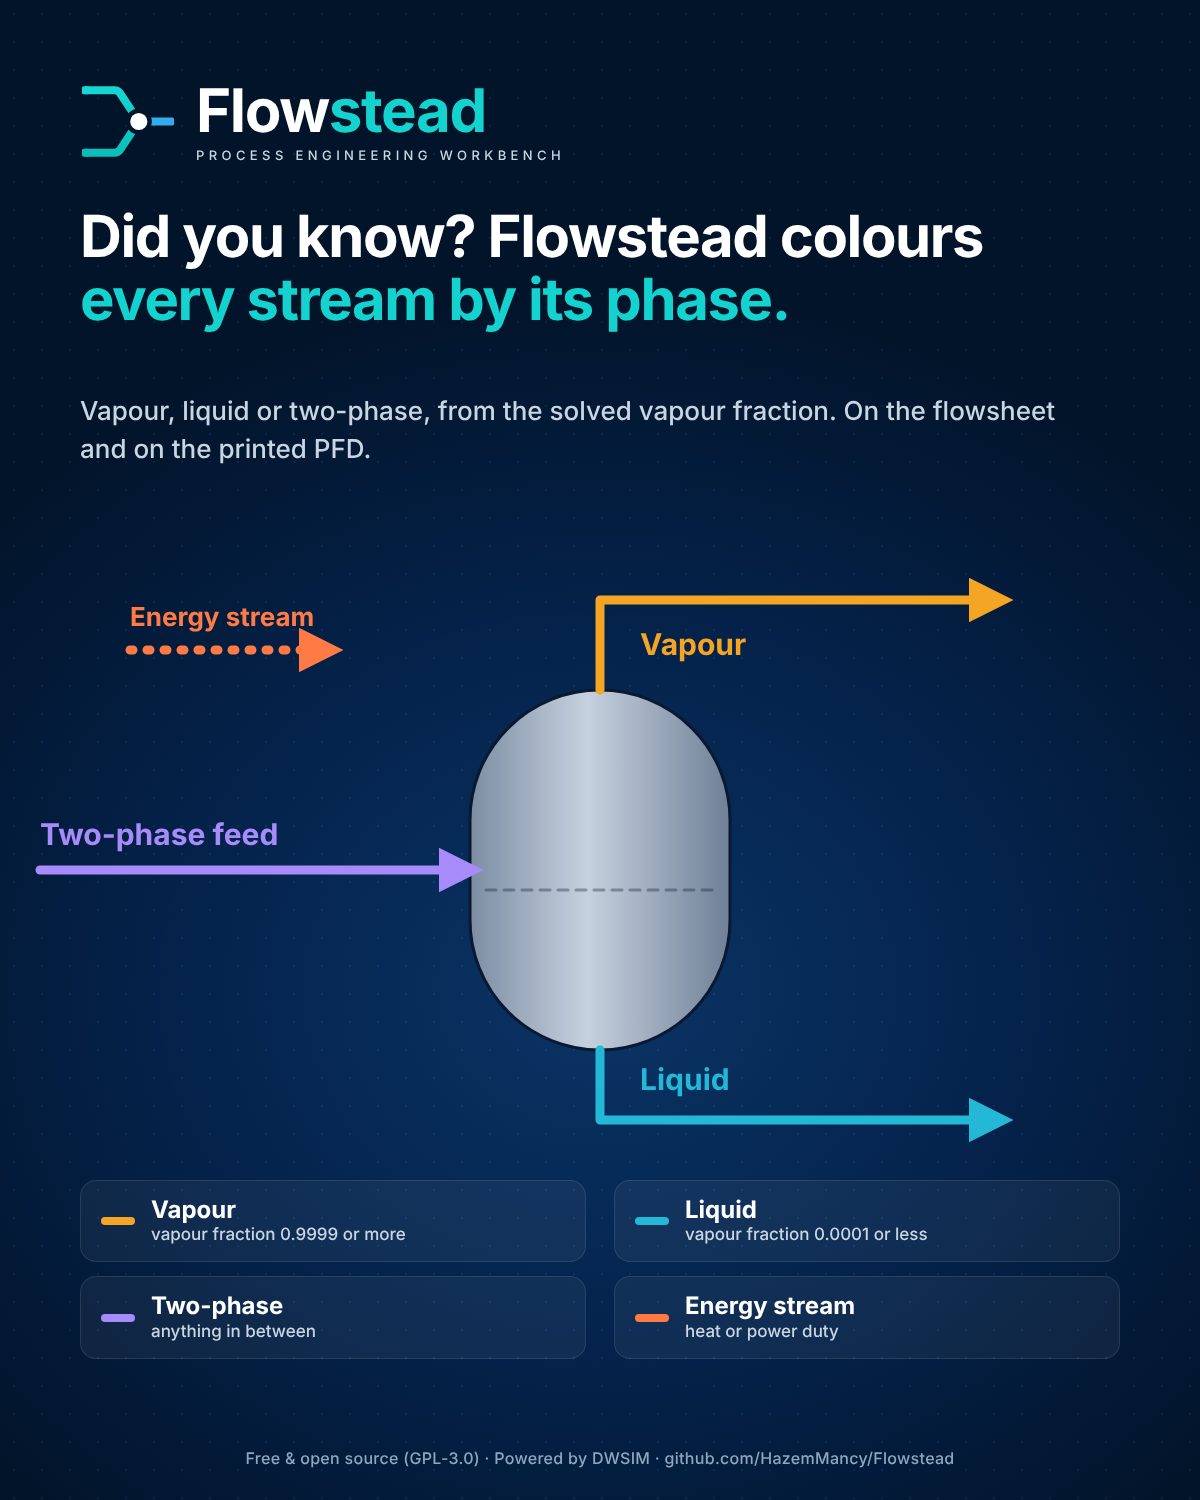
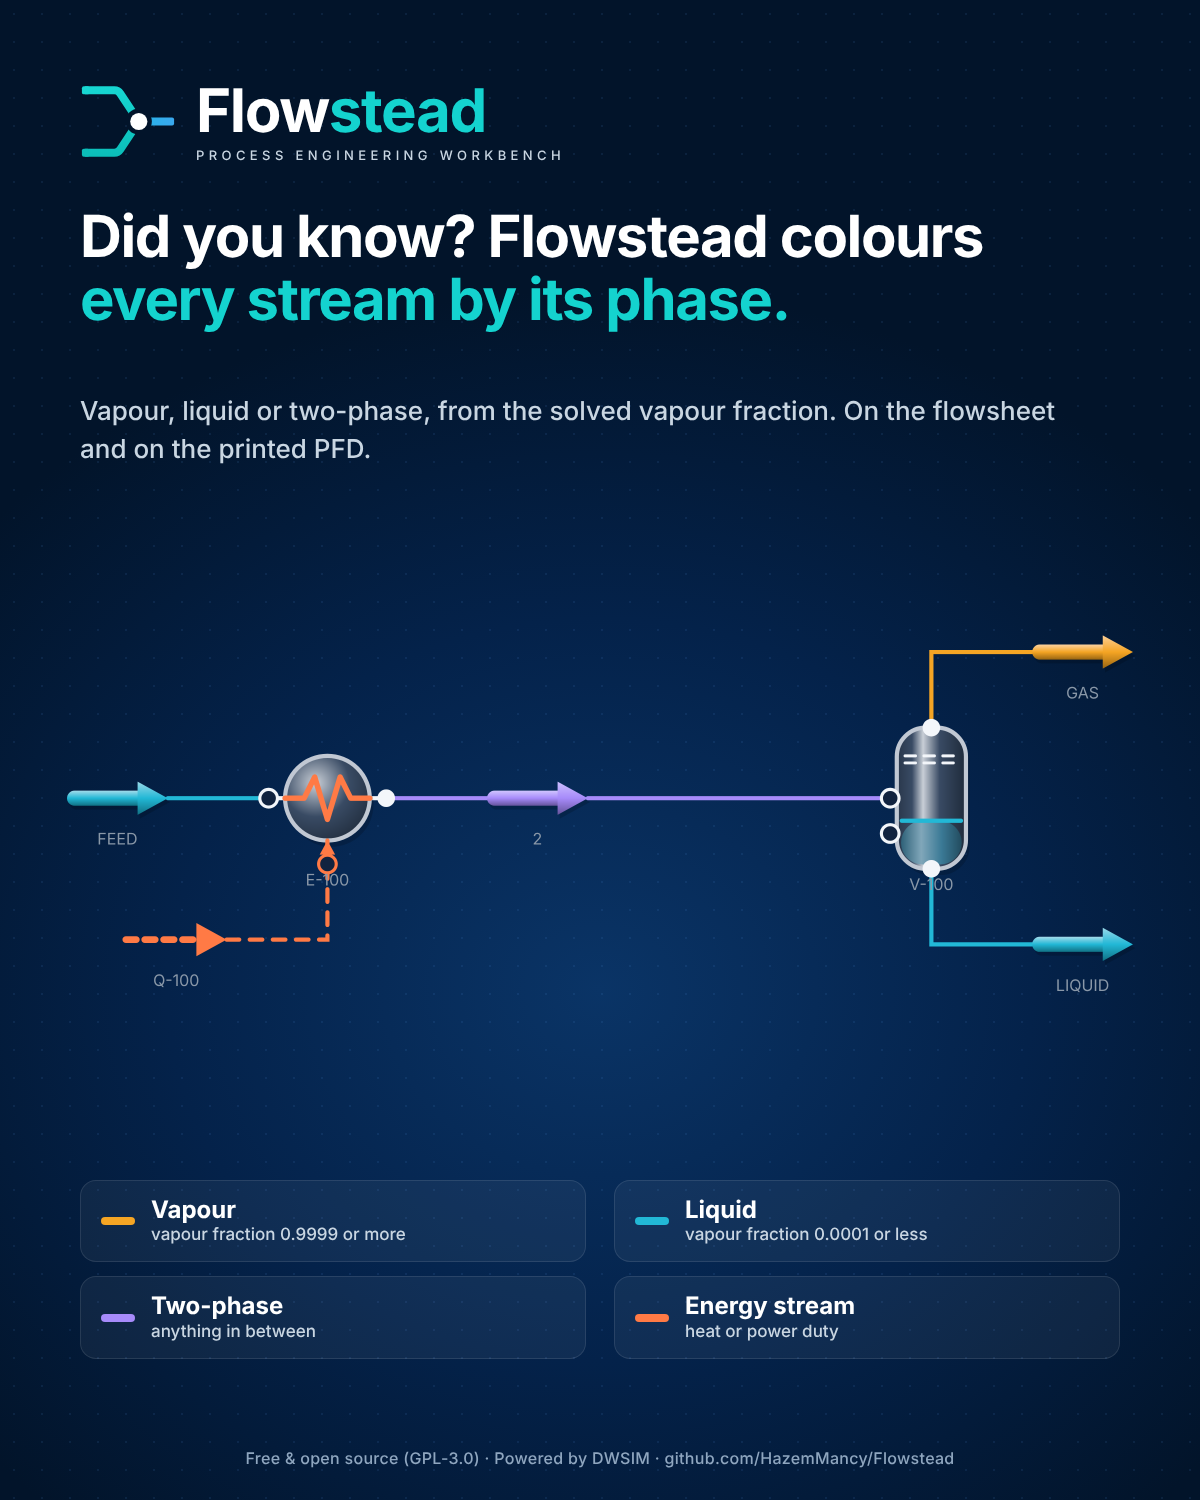
LinkedIn: phase-colours post uses the app's own symbols (drawn by the web core's canvas)
Claude-Session: https://claude.ai/code/session_01HZRB96Aqg1V3VJki8fwms8

Changed region(s): [[0.0308, 0.368, 0.9558, 0.7667], [0.0925, 0.3987, 0.2775, 0.46], [0.1233, 0.6133, 0.185, 0.644]]

diff --git a/docs/linkedin/src/post-phase-colours.html b/docs/linkedin/src/post-phase-colours.html
@@ -1,6 +1,6 @@
 <!doctype html>
 <!-- LinkedIn feed post image, 4:5 (1200x1500): "did you know" stream phase colours. The colours are the app's own (dark theme,
-     ui/theme/ValueColors.kt) and the thresholds are phaseColor() in Icons.kt; a diagram, so no result numbers appear.
+     ui/theme/ValueColors.kt) and the thresholds are phaseColor() in Icons.kt; the symbols and streams are the app's own, drawn by its canvas code (render-phase-flowsheet.mjs); no result numbers appear.
      Render: node src/render.js -->
 <html><head><meta charset="utf-8"><script src="mark.js"></script><style>
 @font-face{font-family:Inter;font-weight:700;src:url(../../../android/app/src/main/res/font/inter_bold.ttf)}
@@ -32,7 +32,7 @@ h1 span{color:#14D3CF}
 
 h1{top:205px;font-size:58px;letter-spacing:-1.4px}
 .lead{top:392px}
-.dia{position:absolute;left:0;top:560px}
+.dia{position:absolute;left:50px;top:600px}
 .leg{position:absolute;left:80px;top:1180px;width:1040px;display:grid;grid-template-columns:1fr 1fr;gap:14px 28px}
 .row{display:flex;align-items:center;gap:16px;padding:16px 20px;border-radius:16px;background:rgba(255,255,255,.05);border:1px solid rgba(255,255,255,.10)}
 .dot{width:34px;height:8px;border-radius:4px;flex:none}
@@ -44,29 +44,7 @@ h1{top:205px;font-size:58px;letter-spacing:-1.4px}
 <div><div class="name">Flow<span>stead</span></div><div class="sub">PROCESS ENGINEERING WORKBENCH</div></div></div>
 <h1>Did you know? Flowstead colours <span>every stream by its phase.</span></h1>
 <div class="lead">Vapour, liquid or two-phase, from the solved vapour fraction. On the flowsheet and on the printed PFD.</div>
-<svg class="dia" width="1200" height="600" viewBox="0 0 1200 600" fill="none" stroke-linecap="round" stroke-linejoin="round">
-<defs>
- <linearGradient id="st" x1="0" x2="1"><stop offset="0" stop-color="#7C8DA3"/><stop offset=".45" stop-color="#C5D1DE"/><stop offset="1" stop-color="#6F8097"/></linearGradient>
- <marker id="av" viewBox="0 0 10 10" refX="7" refY="5" markerWidth="5" markerHeight="5" orient="auto"><path d="M0 0L10 5L0 10z" fill="#F5A524"/></marker>
- <marker id="al" viewBox="0 0 10 10" refX="7" refY="5" markerWidth="5" markerHeight="5" orient="auto"><path d="M0 0L10 5L0 10z" fill="#22B8D6"/></marker>
- <marker id="at" viewBox="0 0 10 10" refX="7" refY="5" markerWidth="5" markerHeight="5" orient="auto"><path d="M0 0L10 5L0 10z" fill="#A78BFA"/></marker>
- <marker id="ae" viewBox="0 0 10 10" refX="7" refY="5" markerWidth="5" markerHeight="5" orient="auto"><path d="M0 0L10 5L0 10z" fill="#FF7A45"/></marker>
-</defs>
-<!-- separator -->
-<rect x="470" y="130" width="260" height="360" rx="130" fill="url(#st)" stroke="#0B1930" stroke-width="3"/>
-<path d="M486 330H714" stroke="#0B1930" stroke-opacity=".35" stroke-width="3" stroke-dasharray="10 8"/>
-<!-- streams -->
-<path d="M40 310H300H470" stroke="#A78BFA" stroke-width="9" marker-end="url(#at)"/>
-<path d="M600 130V40H1000" stroke="#F5A524" stroke-width="9" marker-end="url(#av)"/>
-<path d="M600 490V560H1000" stroke="#22B8D6" stroke-width="9" marker-end="url(#al)"/>
-<path d="M130 90H330" stroke="#FF7A45" stroke-width="9" stroke-dasharray="3 14" marker-end="url(#ae)"/>
-<!-- labels -->
-<g font-family="Inter" font-weight="700" font-size="30">
-<text x="40" y="285" fill="#A78BFA">Two-phase feed</text>
-<text x="640" y="95" fill="#F5A524">Vapour</text>
-<text x="640" y="530" fill="#22B8D6">Liquid</text>
-<text x="130" y="66" fill="#FF7A45" font-size="26">Energy stream</text></g>
-</svg>
+<img class="dia" src="phase-flowsheet.png" width="1100" height="430">
 <div class="leg"><div class="row"><div class="dot" style="background:#F5A524"></div><div><b>Vapour</b><span>vapour fraction 0.9999 or more</span></div></div><div class="row"><div class="dot" style="background:#22B8D6"></div><div><b>Liquid</b><span>vapour fraction 0.0001 or less</span></div></div><div class="row"><div class="dot" style="background:#A78BFA"></div><div><b>Two-phase</b><span>anything in between</span></div></div><div class="row"><div class="dot" style="background:#FF7A45"></div><div><b>Energy stream</b><span>heat or power duty</span></div></div></div>
 <div class="foot">Free &amp; open source (GPL-3.0) · Powered by DWSIM · github.com/HazemMancy/Flowstead</div>
 </div>

diff --git a/docs/linkedin/post-phase-colours.md b/docs/linkedin/post-phase-colours.md
@@ -1,6 +1,6 @@
 # LinkedIn post: stream phase colours
 
-Image: `post-phase-colours-1200x1500.png` (source `src/post-phase-colours.html`). The colours are the app's own (dark theme) and the thresholds are `phaseColor()` in `Icons.kt`; it is a diagram, so no result numbers appear.
+Image: `post-phase-colours-1200x1500.png` (source `src/post-phase-colours.html`). The heater, separator, stream arrows and colours are the app's own: the web core's flowsheet canvas (the app's `Icons.kt`, copied unchanged) draws them (`src/render-phase-flowsheet.mjs`, dark theme), and the thresholds are `phaseColor()`. The streams take their colour from a vapour-fraction spec, as the app does before a solve; no result numbers appear.
 
 ```text
 Did you know? Flowstead colours every stream by its phase.
